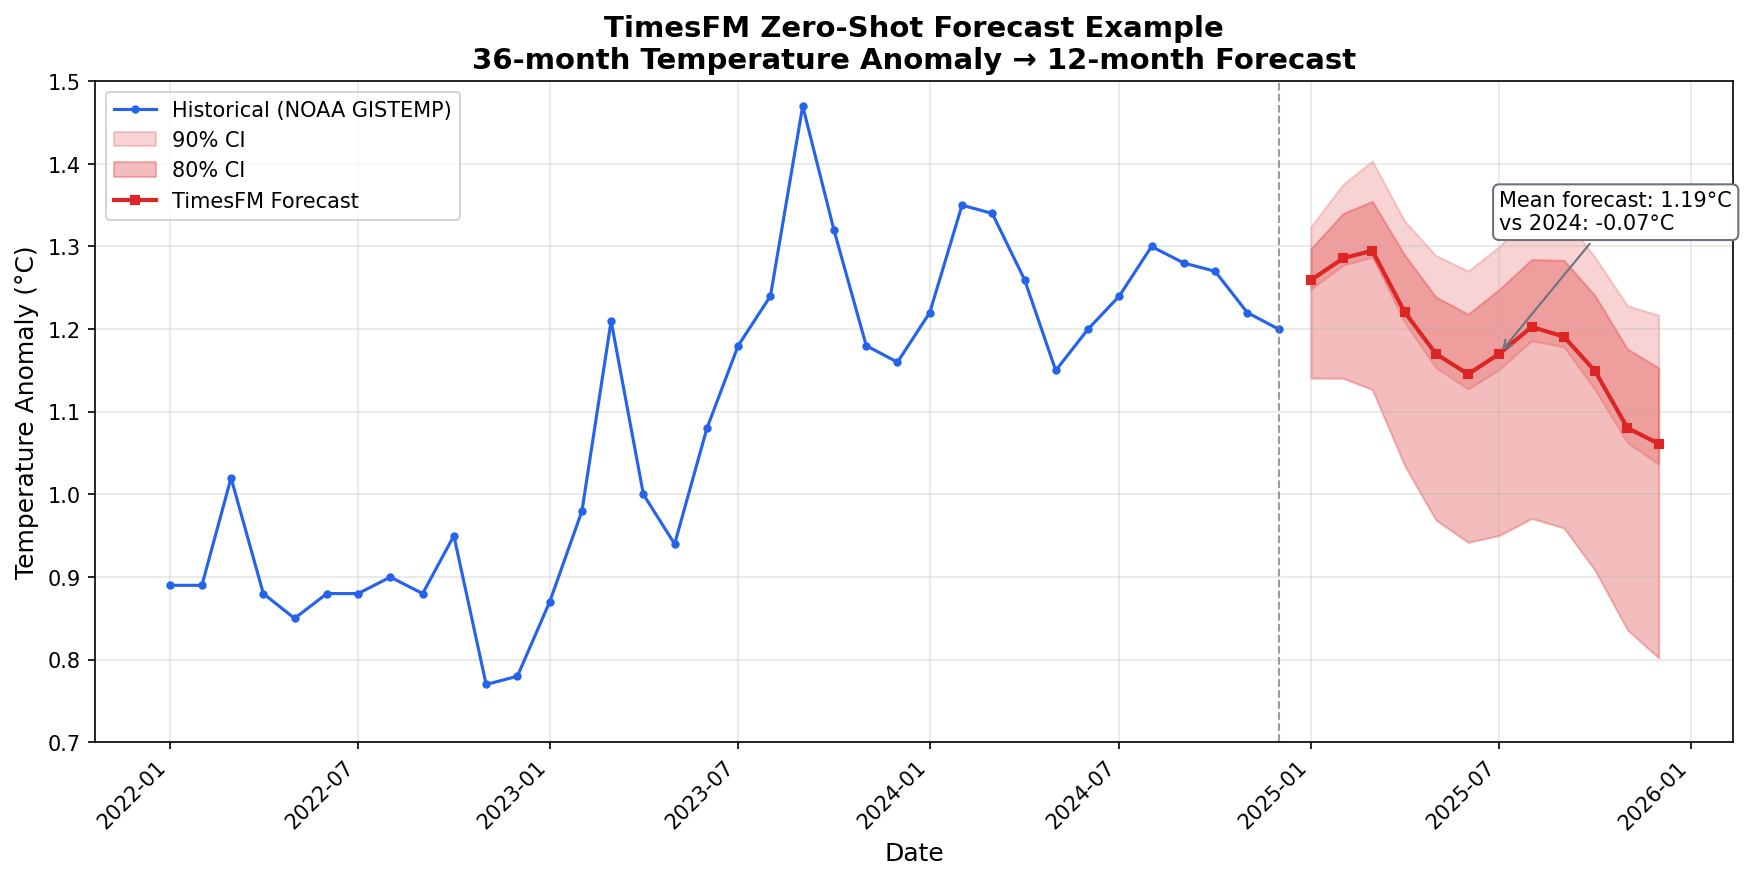
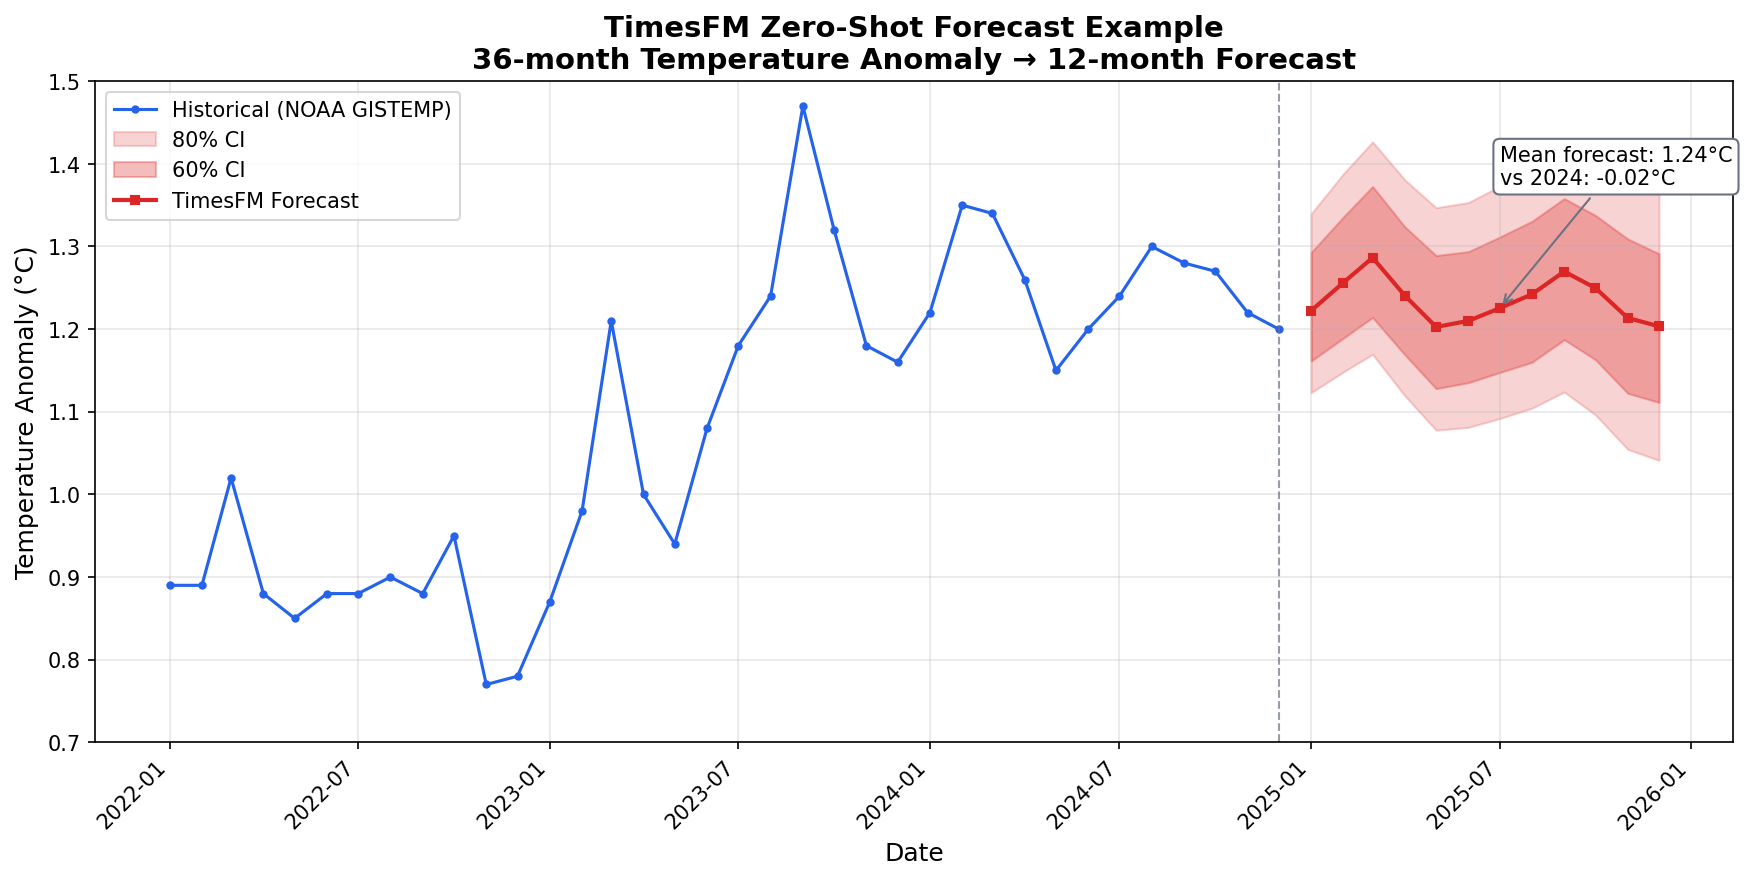
Update global-temperature example to use TimesFM 2.5 API

diff --git a/timesfm-forecasting/examples/global-temperature/run_forecast.py b/timesfm-forecasting/examples/global-temperature/run_forecast.py
@@ -11,6 +11,7 @@ from pathlib import Path
 
 import numpy as np
 import pandas as pd
+import timesfm
 
 # Preflight check
 print("=" * 60)
@@ -35,27 +36,28 @@ print(
 # TimesFM expects a list of 1D numpy arrays
 input_series = df["anomaly_c"].values.astype(np.float32)
 
-# Load TimesFM 1.0 (PyTorch)
-# NOTE: TimesFM 2.5 PyTorch checkpoint has a file format issue at time of writing.
-# The model.safetensors file is not loadable via torch.load().
-# Using TimesFM 1.0 PyTorch which works correctly.
-print("\n🤖 Loading TimesFM 1.0 (200M) PyTorch...")
-import timesfm
+# Load TimesFM 2.5 (PyTorch)
+print("\n🤖 Loading TimesFM 2.5 (200M) PyTorch...")
 
-hparams = timesfm.TimesFmHparams(horizon_len=12)
-checkpoint = timesfm.TimesFmCheckpoint(
-    huggingface_repo_id="google/timesfm-1.0-200m-pytorch"
+model = timesfm.TimesFM_2p5_200M_torch.from_pretrained(
+    "google/timesfm-2.5-200m-pytorch",
+    torch_compile=False,
 )
-model = timesfm.TimesFm(hparams=hparams, checkpoint=checkpoint)
+model.compile(timesfm.ForecastConfig(
+    max_context=512,
+    max_horizon=12,
+    normalize_inputs=True,
+    use_continuous_quantile_head=True,
+    fix_quantile_crossing=True,
+))
 
 # Forecast
 print("\n📈 Running forecast (12 months ahead)...")
 forecast_input = [input_series]
-frequency_input = [0]  # Monthly data
 
 point_forecast, experimental_quantile_forecast = model.forecast(
-    forecast_input,
-    freq=frequency_input,
+    horizon=12,
+    inputs=forecast_input,
 )
 
 print(f"   Point forecast shape: {point_forecast.shape}")
@@ -65,9 +67,8 @@ print(f"   Quantile forecast shape: {experimental_quantile_forecast.shape}")
 point = point_forecast[0]  # Shape: (horizon,)
 quantiles = experimental_quantile_forecast[0]  # Shape: (horizon, num_quantiles)
 
-# TimesFM quantiles: [0.1, 0.2, 0.3, 0.4, 0.5, 0.6, 0.7, 0.8, 0.9, 0.99]
-# Index mapping: 0=10%, 1=20%, ..., 4=50% (median), ..., 9=99%
-quantile_labels = ["10%", "20%", "30%", "40%", "50%", "60%", "70%", "80%", "90%", "99%"]
+# TimesFM 2.5 columns: 0=mean, 1=10%, 2=20%, ..., 5=50% (median), ..., 9=90%
+quantile_labels = ["mean", "10%", "20%", "30%", "40%", "50%", "60%", "70%", "80%", "90%"]
 
 # Create forecast dates (2025 monthly)
 last_date = df["date"].max()
@@ -80,16 +81,16 @@ output_df = pd.DataFrame(
     {
         "date": forecast_dates.strftime("%Y-%m-%d"),
         "point_forecast": point,
-        "q10": quantiles[:, 0],
-        "q20": quantiles[:, 1],
-        "q30": quantiles[:, 2],
-        "q40": quantiles[:, 3],
-        "q50": quantiles[:, 4],  # Median
-        "q60": quantiles[:, 5],
-        "q70": quantiles[:, 6],
-        "q80": quantiles[:, 7],
-        "q90": quantiles[:, 8],
-        "q99": quantiles[:, 9],
+        "mean": quantiles[:, 0],
+        "q10": quantiles[:, 1],
+        "q20": quantiles[:, 2],
+        "q30": quantiles[:, 3],
+        "q40": quantiles[:, 4],
+        "q50": quantiles[:, 5],  # Median
+        "q60": quantiles[:, 6],
+        "q70": quantiles[:, 7],
+        "q80": quantiles[:, 8],
+        "q90": quantiles[:, 9],
     }
 )
 
@@ -100,7 +101,7 @@ output_df.to_csv(output_dir / "forecast_output.csv", index=False)
 
 # JSON output for the report
 output_json = {
-    "model": "TimesFM 1.0 (200M) PyTorch",
+    "model": "TimesFM 2.5 (200M) PyTorch",
     "input": {
         "source": "NOAA GISTEMP Global Temperature Anomaly",
         "n_observations": len(df),
@@ -135,24 +136,24 @@ print("=" * 60)
 print(
     f"\n📅 Forecast period: {forecast_dates[0].strftime('%Y-%m')} to {forecast_dates[-1].strftime('%Y-%m')}"
 )
-print(f"\n🌡️  Temperature Anomaly Forecast (°C above 1951-1980 baseline):")
-print(f"\n   {'Month':<10} {'Point':>8} {'80% CI':>15} {'90% CI':>15}")
+print("\n🌡️  Temperature Anomaly Forecast (°C above 1951-1980 baseline):")
+print(f"\n   {'Month':<10} {'Point':>8} {'60% CI':>15} {'80% CI':>15}")
 print(f"   {'-' * 10} {'-' * 8} {'-' * 15} {'-' * 15}")
-for i, (date, pt, q10, q90, q05, q95) in enumerate(
+for i, (date, pt, q20, q80, q10, q90) in enumerate(
     zip(
         forecast_dates.strftime("%Y-%m"),
         point,
-        quantiles[:, 1],  # 20%
-        quantiles[:, 7],  # 80%
-        quantiles[:, 0],  # 10%
-        quantiles[:, 8],  # 90%
+        quantiles[:, 2],  # 20%
+        quantiles[:, 8],  # 80%
+        quantiles[:, 1],  # 10%
+        quantiles[:, 9],  # 90%
     )
 ):
     print(
-        f"   {date:<10} {pt:>8.3f} [{q10:>6.3f}, {q90:>6.3f}] [{q05:>6.3f}, {q95:>6.3f}]"
+        f"   {date:<10} {pt:>8.3f} [{q20:>6.3f}, {q80:>6.3f}] [{q10:>6.3f}, {q90:>6.3f}]"
     )
 
-print(f"\n📊 Summary Statistics:")
+print("\n📊 Summary Statistics:")
 print(f"   Mean forecast:  {point.mean():.3f}°C")
 print(
     f"   Max forecast:   {point.max():.3f}°C (Month: {forecast_dates[point.argmax()].strftime('%Y-%m')})"
@@ -162,6 +163,6 @@ print(
 )
 print(f"   vs 2024 mean:   {point.mean() - df['anomaly_c'].iloc[-12:].mean():+.3f}°C")
 
-print(f"\n✅ Output saved to:")
+print("\n✅ Output saved to:")
 print(f"   {output_dir / 'forecast_output.csv'}")
 print(f"   {output_dir / 'forecast_output.json'}")

diff --git a/timesfm-forecasting/examples/global-temperature/visualize_forecast.py b/timesfm-forecasting/examples/global-temperature/visualize_forecast.py
@@ -16,6 +16,8 @@ from __future__ import annotations
 import json
 from pathlib import Path
 
+import matplotlib
+matplotlib.use("Agg")
 import matplotlib.pyplot as plt
 import numpy as np
 import pandas as pd
@@ -57,11 +59,11 @@ def main() -> None:
         label="Historical (NOAA GISTEMP)",
     )
 
-    # Plot 90% CI (outer band)
-    ax.fill_between(dates, q10, q90, alpha=0.2, color="#dc2626", label="90% CI")
+    # Plot 80% CI (outer band)
+    ax.fill_between(dates, q10, q90, alpha=0.2, color="#dc2626", label="80% CI")
 
-    # Plot 80% CI (inner band)
-    ax.fill_between(dates, q20, q80, alpha=0.3, color="#dc2626", label="80% CI")
+    # Plot 60% CI (inner band)
+    ax.fill_between(dates, q20, q80, alpha=0.3, color="#dc2626", label="60% CI")
 
     # Plot point forecast
     ax.plot(